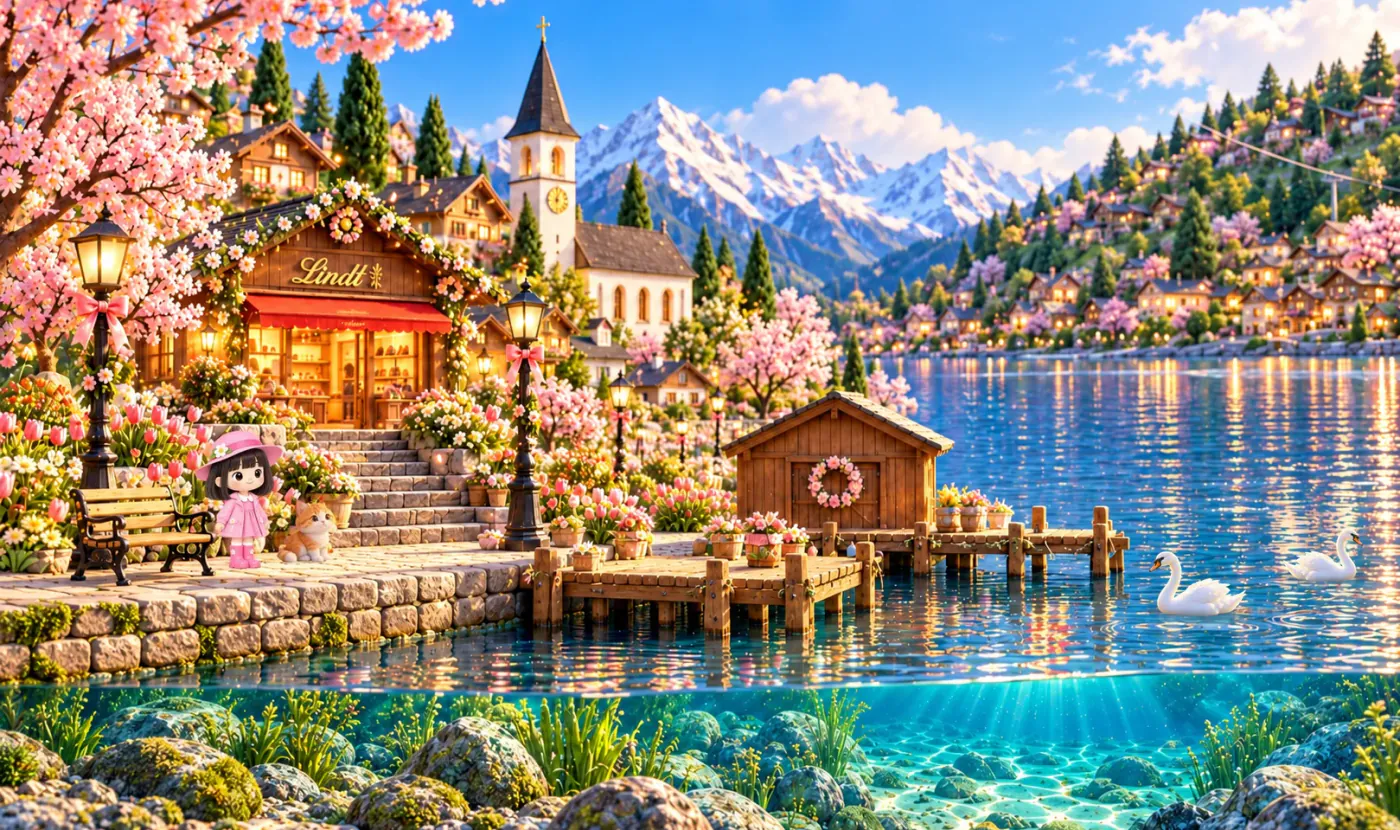
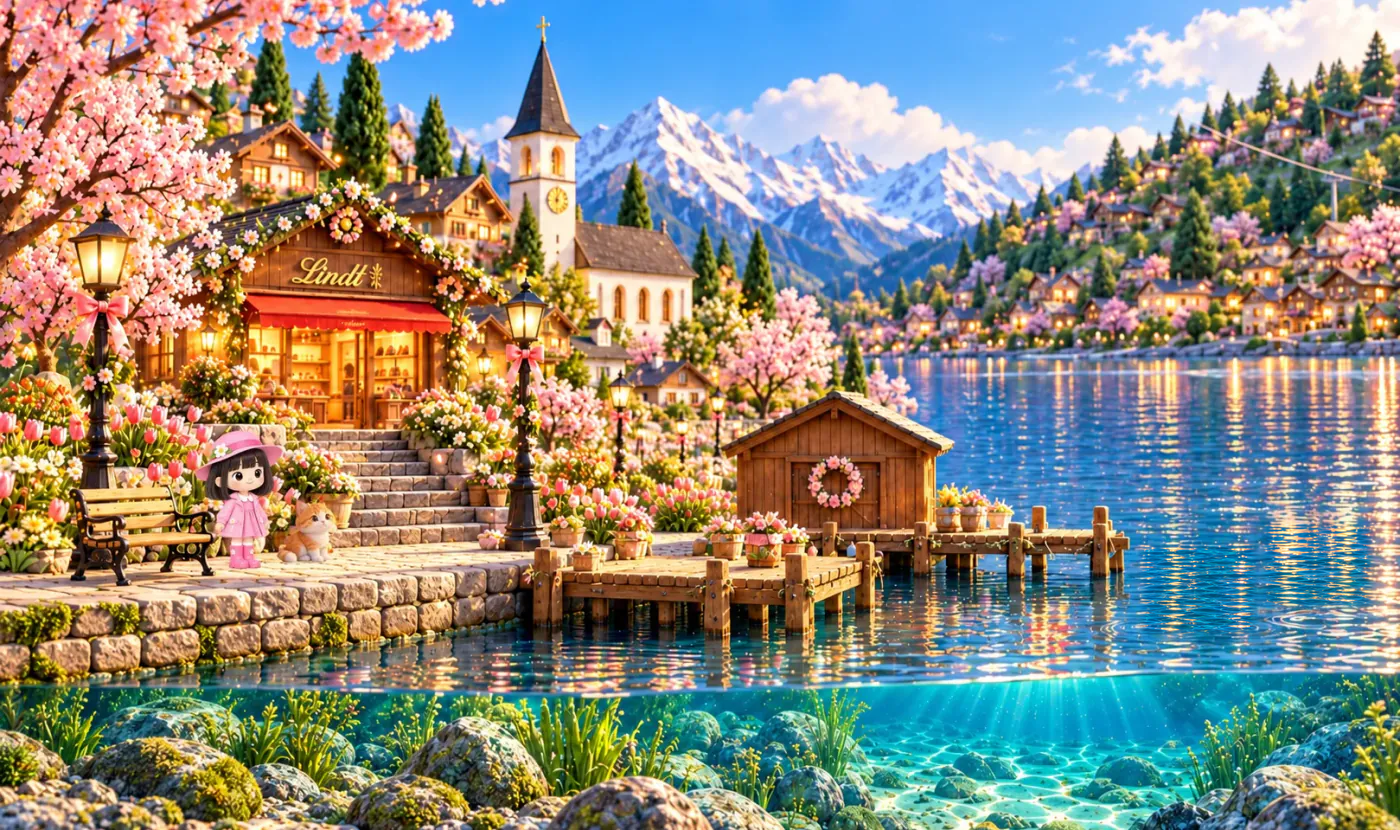
design: apply reviewed Lindt season edits and record asset sources

Changed region(s): [[0.7986, 0.6325, 0.9829, 0.7831]]

diff --git a/docs/research/legal/2026-11-13-lindt-assets/README.md b/docs/research/legal/2026-11-13-lindt-assets/README.md
@@ -1,0 +1,21 @@
+# Weather Aquarium Lindt seasons — reviewed local edits
+
+PM accepted the four images in #lu-portfolio message 10194 (2026-11-12), following the edit request in 9826 and delivery in 10192. This revision installs those exact reviewed outputs. Legal and visual QA must review the new PR HEAD; PM acceptance is not legal clearance.
+
+## Asset provenance
+
+Originals: PR #154 commit `3c20cbbd571a81d1ef5d1796f8d7def5cee2109f`, `public/assets/images/lab/weather-aquarium/season-{spring,summer,autumn,winter}-lindt.webp`. Those scenes came from PR #85, as recorded in PR #154. Existing shop lettering and all other pixels outside the edit masks are retained. No new external image source was used in this revision.
+
+Local generation and assembly: `/Users/lu/.buzz/OUTBOX/LINDT_LOCAL_EDITS_1112/`, including `build.cjs`, generated drafts, masks and the winter character layer. Built-in image generation produced a lake-water patch and a transparent girl/cat cutout. Prompt intent: remove both swans and their white reflections while preserving the lake colors and framing; create the reference girl in pink winter clothing beside the orange-white cat in a cream sweater, full bodies on transparency. These are summaries recorded by the original build, not a verbatim API request log.
+
+- Spring, summer, autumn: two feathered masks replace swans/reflections with the generated water patch.
+- Winter: girl and cat composited on the promenade; the rest of the scene remains unchanged.
+- Four outputs: 1400 × 830, lossless WebP, copied without recompression. This retains the approved pixels but increases each asset from roughly 265–288 KB to 1.72–1.80 MB. Asset weight remains for QA assessment.
+- Filenames, carousel geometry and production code are unchanged by this revision.
+- `assets` is the repository symlink to `public/assets`; both asset paths therefore resolve to the same updated files.
+
+`validation.json` records source/output SHA-256 hashes and pixel-change counts. The four masks are retained here. `comparison.png` shows A = original, B = edited, from spring through winter. All four decoded outputs have zero differing pixels outside their respective masks. The reviewed local outputs were verified byte-for-byte before copying into the PR.
+
+## Remaining review
+
+Legal: generated inserts and retained Lindt lettering; new image files require a signature on the new HEAD. Visual QA: water joins, winter character fit and live carousel rendering. Copy/dev: the existing alt text predates these edits (it still describes swans and omits the winter characters); align that text before release. This asset-only revision does not claim that alt text is updated.
